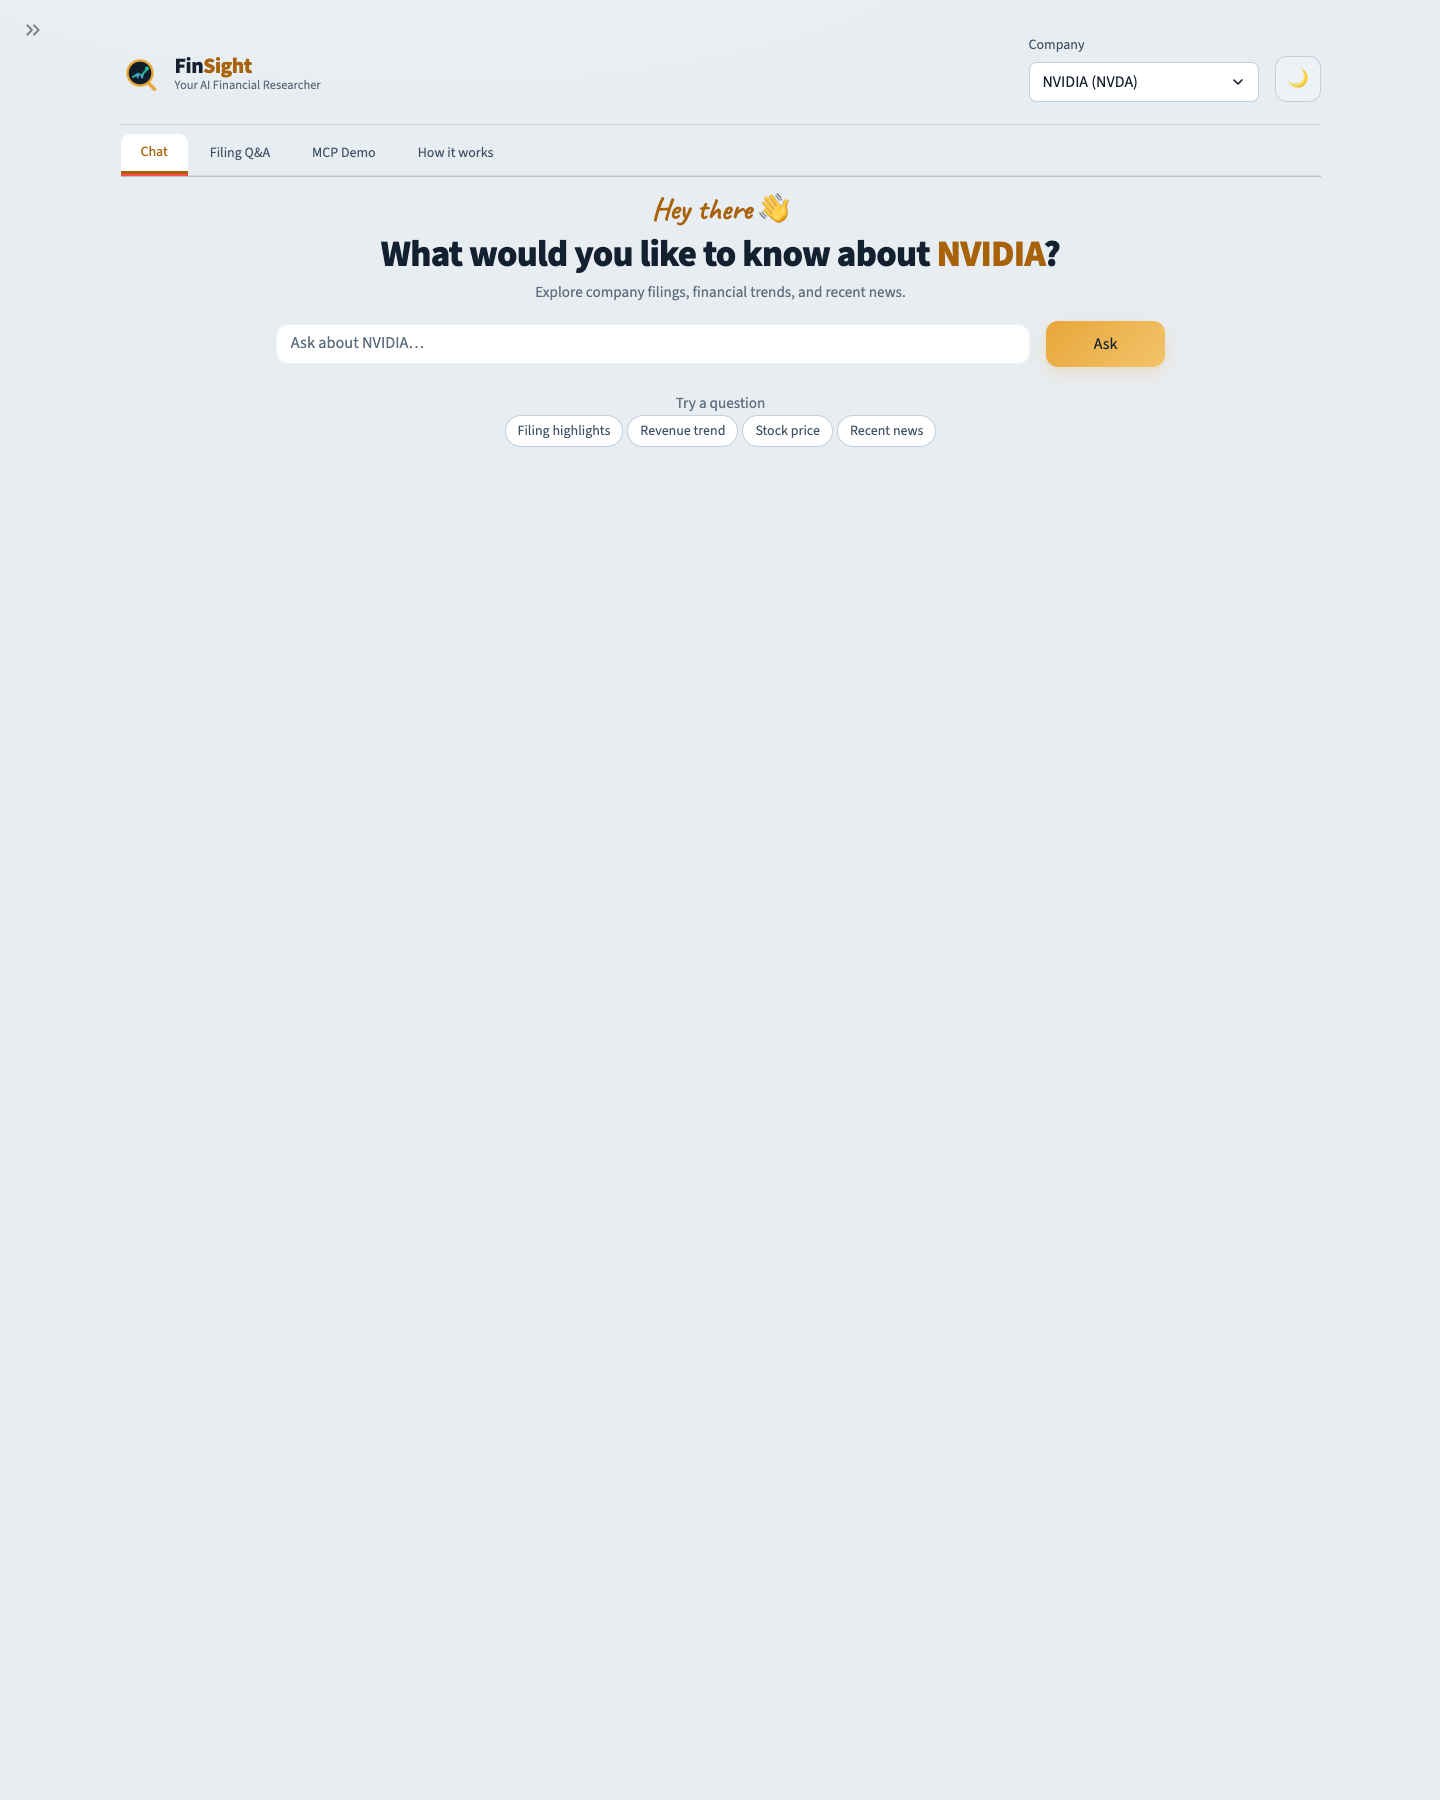
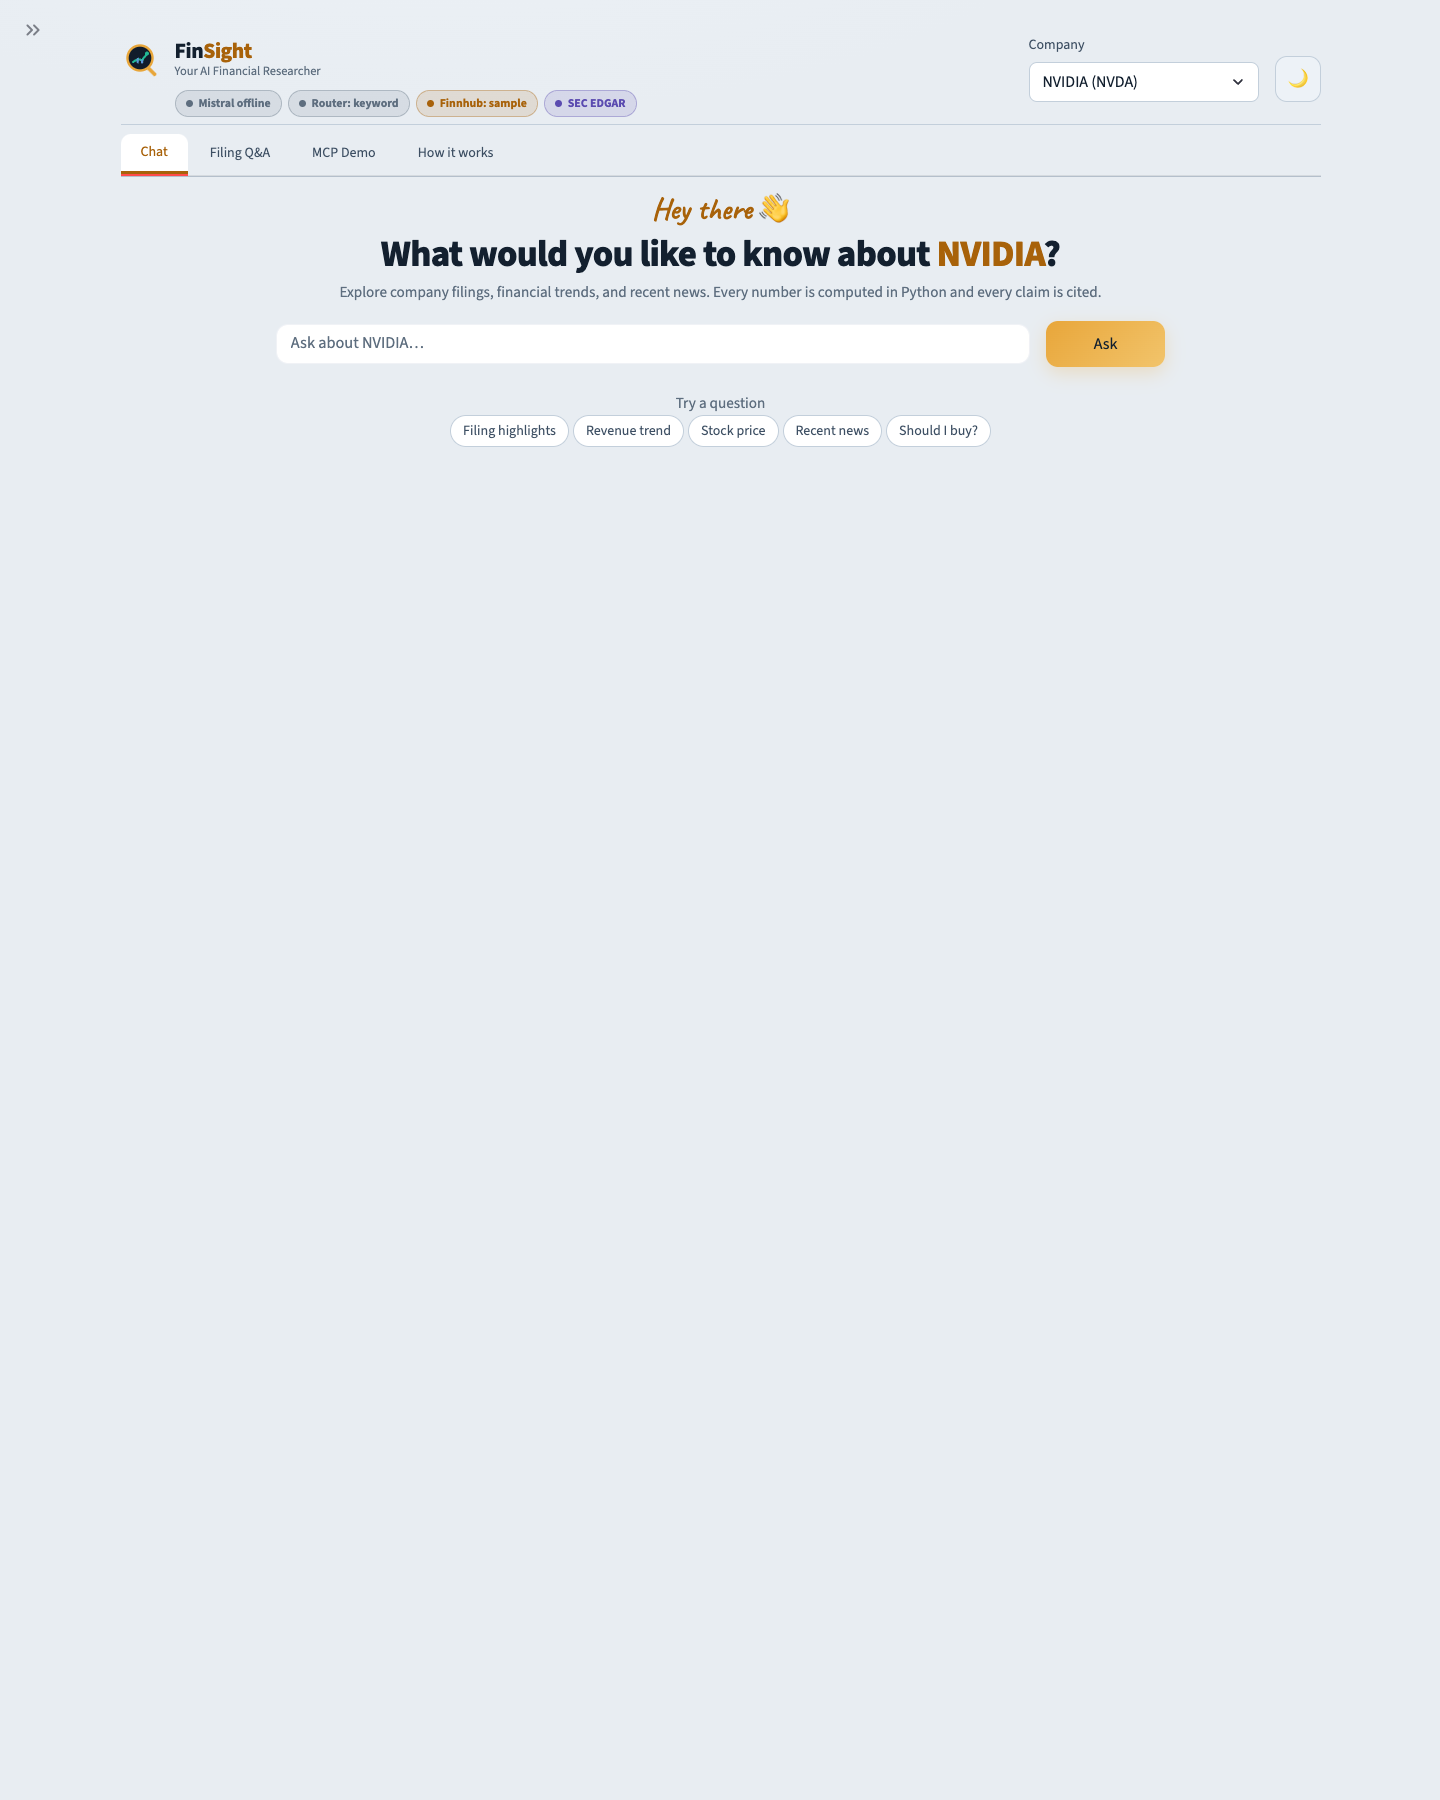
feat(ui): mode chips back in the header, 'Should I buy?' chip, refusal badge
- Mistral / router / Finnhub / SEC status chips show under the logo again (they had
  moved into the closed sidebar, so the running mode was invisible).
- Subtitle restores "Every number is computed in Python and every claim is cited."
- Fifth example chip shows the no-advice guardrail; refusals get a 'Declined' badge
  instead of the misleading 'AI draft didn't pass the checks' one.

diff --git a/ACSESS/finsight/frontend/streamlit_app.py b/ACSESS/finsight/frontend/streamlit_app.py
@@ -36,6 +36,10 @@ apply_theme()
 brand, pick = st.columns([3, 1.2], vertical_alignment="center")
 with brand:
     render_header()
+    # which engines are live (Mistral / router / Finnhub / SEC), always visible like before
+    st.markdown('<div style="display:flex;gap:6px;flex-wrap:wrap;margin:2px 0 0 54px;">'
+                + chips_html(st.session_state.get("use_fake", False), st.session_state.get("use_laya", False))
+                + "</div>", unsafe_allow_html=True)
 with pick.container(horizontal=True, horizontal_alignment="right", vertical_alignment="bottom"):
     company = st.selectbox("Company", list(COMPANY_INFO), width=230,
                            format_func=lambda t: f"{COMPANY_INFO[t]['short']} ({t})")
@@ -44,12 +48,6 @@ with pick.container(horizontal=True, horizontal_alignment="right", vertical_alig
               on_click=lambda: st.session_state.update(light_mode=not light))
 st.markdown(f'<div style="border-bottom:1px solid {COLORS["border"]};margin:4px 0 6px;"></div>',
             unsafe_allow_html=True)
-
-with st.sidebar:
-    st.markdown('<div class="fs-label" style="margin-top:12px;">Status</div>', unsafe_allow_html=True)
-    st.markdown('<div style="display:flex;gap:6px;flex-wrap:wrap;margin:6px 0 12px;">'
-                + chips_html(st.session_state.get("use_fake", False), st.session_state.get("use_laya", False))
-                + "</div>", unsafe_allow_html=True)
 
 tab_agent, tab_filing, tab_mcp, tab_how = st.tabs(["Chat", "Filing Q&A", "MCP Demo", "How it works"])
 with tab_agent:

diff --git a/ACSESS/finsight/frontend/components/agent_demo.py b/ACSESS/finsight/frontend/components/agent_demo.py
@@ -77,6 +77,7 @@ CHIPS = {
     "Revenue trend": "How did {co}'s revenue change year over year?",
     "Stock price": "What is {co} trading at right now?",
     "Recent news": "What's the latest news on {co} today?",
+    "Should I buy?": "Should I buy {co} stock?",  # shows the no-advice guardrail
 }
 
 
@@ -110,7 +111,8 @@ def _chat(company: str) -> None:
         st.markdown('<div class="fs-hello" style="text-align:center;">Hey there 👋</div>',
                     unsafe_allow_html=True)
     st.markdown(f'<div class="fs-hero">What would you like to know about <span>{short}</span>?</div>'
-                f'<div class="fs-sub">Explore company filings, financial trends, and recent news.</div>',
+                f'<div class="fs-sub">Explore company filings, financial trends, and recent news. '
+                'Every number is computed in Python and every claim is cited.</div>',
                 unsafe_allow_html=True)
 
     # engine switches are for developers, so they live in the sidebar

diff --git a/ACSESS/finsight/frontend/components/answer.py b/ACSESS/finsight/frontend/components/answer.py
@@ -82,7 +82,11 @@ def render_answer(trace, memory) -> None:
         return
     detail = next((e.get("detail", "") for e in trace.events if e["agent"] == "report_agent"), "")
     verified = "mistral" in detail
-    if verified:
+    if trace.route == "refuse":  # advice question: declined before any agent or LLM ran
+        badge = (f'<span class="fs-chip" style="background:{c["sec"]}1f;color:{c["sec"]};'
+                 f'border-color:{c["sec"]}66;">{icon("alert", 13, c["sec"])} '
+                 f'Declined · FinSight shares facts, not investment advice</span>')
+    elif verified:
         badge = (f'<span class="fs-chip" style="background:{c["python"]}1f;color:{c["python"]};'
                  f'border-color:{c["python"]}66;">{icon("check", 13, c["python"])} '
                  f'Verified · every number matches the notes</span>')
